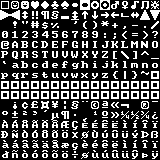
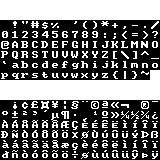
changed some font things and unified text editing code

Changed region(s): [[0.0, 0.4375, 1.0, 0.625], [0.0, 0.0, 1.0, 0.125]]

diff --git a/readme.md b/readme.md
@@ -25,7 +25,7 @@
 * Comma - Go backwards 0.1s
 
 # Credits
-* REXPaint / qbicfeet - `assets/qbicfeet_10x10.png` (note: modified to align with unicode)
-* GNU Unifont - `assets/unifont.png` (note: modified to center 8-width characters)
-* easings.net - Implementation for every easing (note: translated to D).
+* REXPaint / qbicfeet - `assets/font_*.png` (heavily modified)
+* GNU Unifont - `assets/unifont.png` (modified to center 8-width characters)
+* easings.net - Implementation for every easing (translated to D).
 * @senorconejo (discord) - Brazilian Portuguese translation
